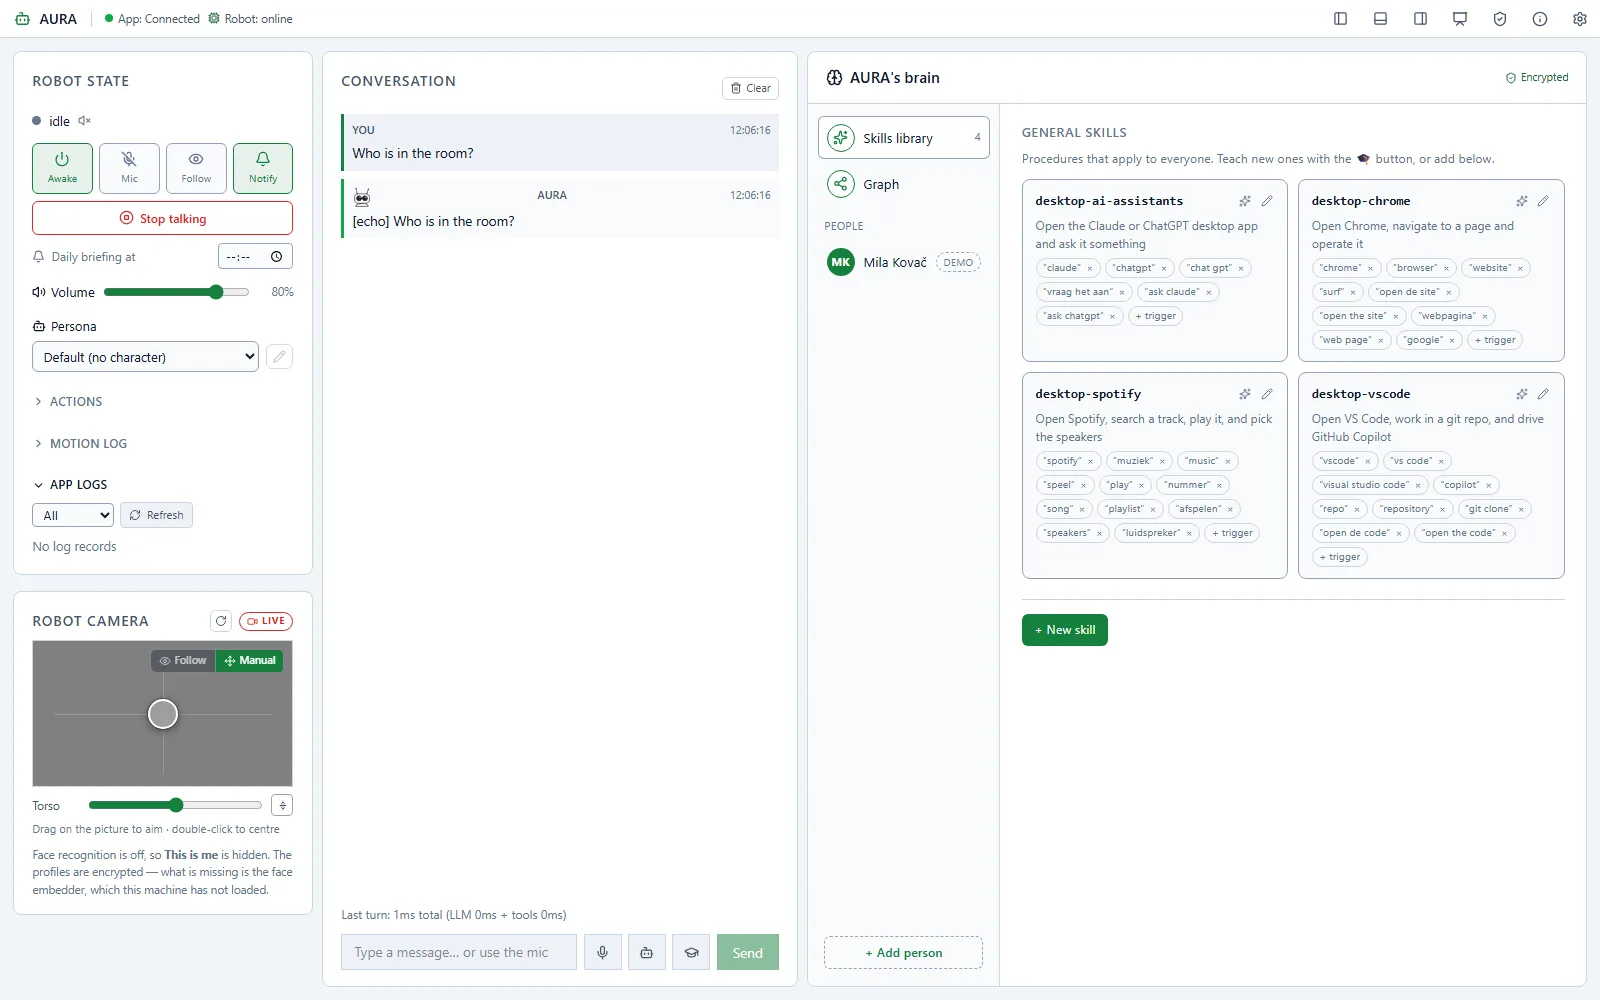
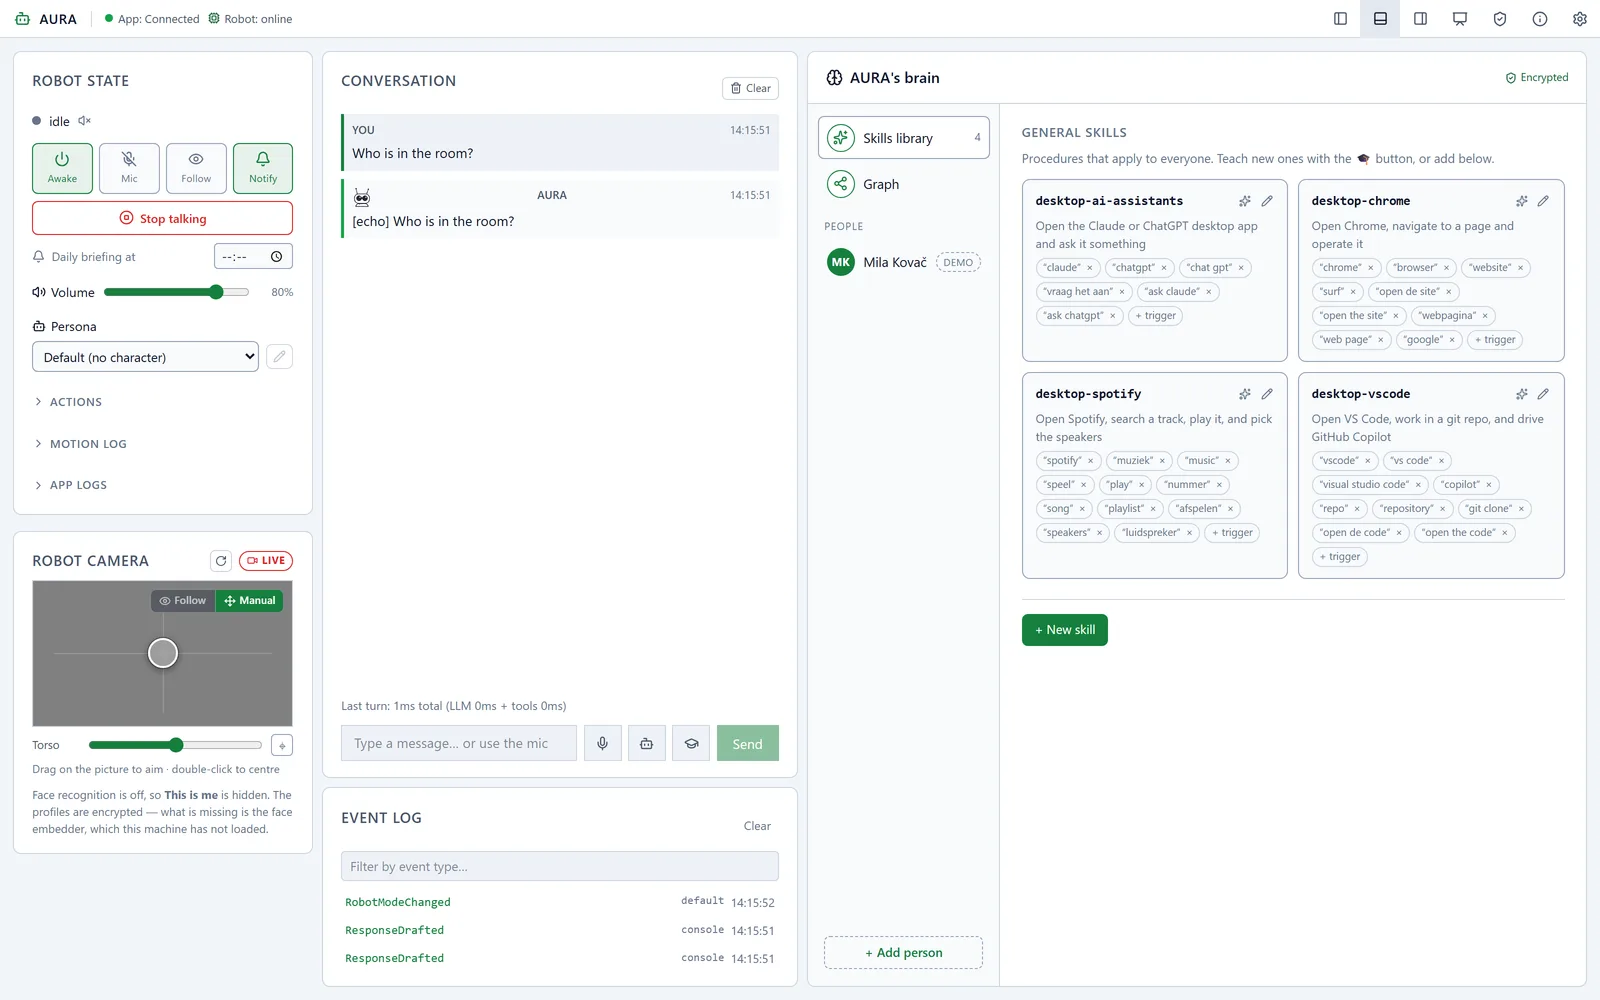
content: re-shot every screenshot, and two of them were saying the wrong thing
The subloops post claimed the loops report what they did, over a picture of
an empty log box — it had photographed the Python log ring buffer, which a
healthy run never writes to. It now shows the event log, which is where the
loops actually publish, with real timestamped entries.

The offline shot predated the wider brain dock and still showed skill cards
breaking one syllable per line.

The two figures in the learning post were the whole console again, and the
skills one was nearly pixel-identical to the opening shot of post 01. Both
are now the brain panel on its own, captured at 2x so they stay sharp at the
size they are shown.

diff --git a/src/content/blog/teaching-an-assistant-without-training-a-model.md b/src/content/blog/teaching-an-assistant-without-training-a-model.md
@@ -52,8 +52,8 @@ should never carry the same weight, and neither is a procedure.
 
 <figure>
   <img src="/blog/teaching-an-assistant-without-training-a-model/brain-profile.webp"
-       alt="The brain panel showing a person's profile: a demo badge, twenty-two facts grouped by category, each with wiki-style links to topics."
-       width="1600" height="1000" loading="lazy" />
+       alt="The brain panel showing a person's profile: a demo badge, a fact counter reading twenty-two, and the first of those facts grouped by category — sport, likes, habit, interest — each written in plain language with wiki-style links to topics."
+       width="1174" height="1766" loading="lazy" />
   <figcaption>Everything the assistant believes about someone, in one editable list. This is the fictional demo profile that ships with the app — note the badge, and note that every fact is a row you can delete.</figcaption>
 </figure>
 
@@ -83,7 +83,7 @@ single feature I would keep if I could keep only one.
 <figure>
   <img src="/blog/teaching-an-assistant-without-training-a-model/skills-library.webp"
        alt="The skills library: procedures stored as cards, each with its trigger phrases listed beneath."
-       width="1600" height="1000" loading="lazy" />
+       width="1174" height="1131" loading="lazy" />
   <figcaption>Skills are procedures, not facts — each with the phrases that trigger it. The assistant may propose one of these. It may not save one.</figcaption>
 </figure>
 

diff --git a/src/content/blog/subloops.md b/src/content/blog/subloops.md
@@ -69,9 +69,9 @@ know that, even though everything "works".
 
 <figure>
   <img src="/blog/subloops/app-logs.webp"
-       alt="The console with the application log panel open, showing timestamped entries from the running loops."
+       alt="The console with the event log open along the bottom, showing timestamped events published by the running loops: a robot mode change and two drafted responses."
        width="1600" height="1000" loading="lazy" />
-  <figcaption>The loops report rather than whisper. If something healed itself eleven times this morning, that is a thing you want to be able to find out.</figcaption>
+  <figcaption>The loops publish rather than whisper — every transition lands here with a timestamp. This is one quiet turn in a demo build; on a working day the list is long, and that is the point. If something healed itself eleven times this morning, you want to be able to find that out.</figcaption>
 </figure>
 
 ## The gate between capability and crypto
